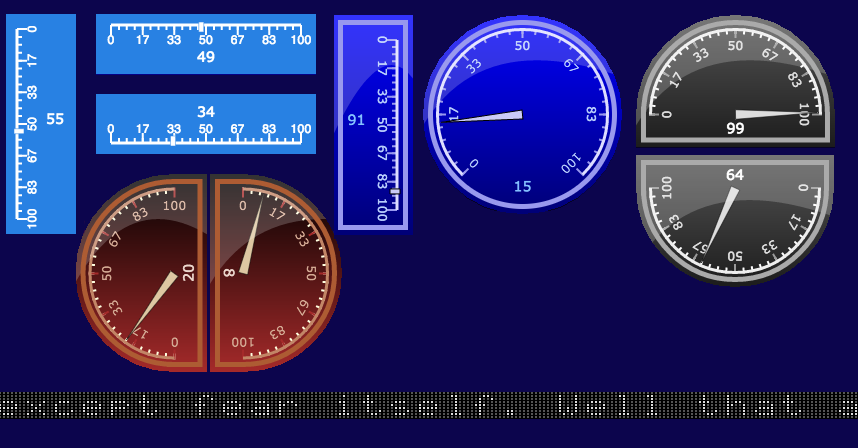
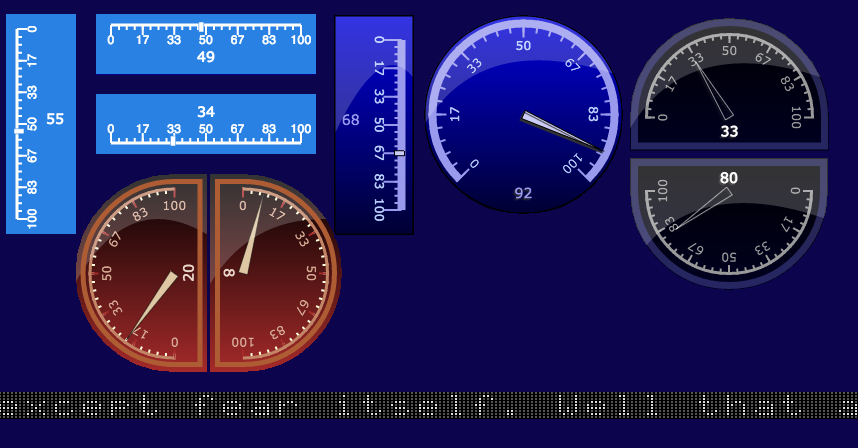
updated themes

Changed region(s): [[0.3636, 0.0312, 1.0, 0.6562]]

diff --git a/ts/dials/DialBase.ts b/ts/dials/DialBase.ts
@@ -392,53 +392,60 @@ module DbDashboards.Dials {
 
 
         public static themes: DbDashboards.Common.Themes = {
-            dark:  {
+            dark:   {
                 face:{
-                    gradientColor2: "black",
-                    gradientColor1: "#555"
+                    gradientColor2: "#003",
+                    gradientColor1: "#000"
                 },
                 value: {
                     font: {
-                        strokeStyle: "#FFF",
-                        fillStyle: "#FFF"
-                    }
+                        fillStyle: "#fff"
+                    },
+                    margin:60
+
                 },
                 bezel: {
-                    strokeStyle: "#aaa"
+                    strokeStyle: "rgba(126,126,255, 0.3)",
+                    width: 7,
+                    margin: 1
                 },
                 needle: {
-                    fillStyle: "#ddd",
-                    strokeStyle: "#000",
-                    shadowColor: "#333"
+                    fillStyle: "rgba(0,0,0,0)",
+                    strokeStyle: "#fff",
+                    shadowColor: "#333",
+                    margin: 30
                 },
                 scale: {
-                    strokeStyle: "#eee",
+                    margin: 7,
+                    strokeStyle: "#999",
 
                     majorTicks: {
                         strokeStyle: "#999"
                     },
                     minorTicks: {
-                        strokeStyle: "white"
+                        strokeStyle: "#999"
                     },
                     font: {
-                        strokeStyle: "white",
-                        fillStyle: "#ddd"
+                        fillStyle: "#999",
+
                     }
                 }
             },
             blue: {
                 face:{
-                    gradientColor2: "#007",
-                    gradientColor1: "#00f"
+                    gradientColor1: "#00d",
+                    gradientColor2: "#003"
                 },
                 value: {
                     font: {
                         strokeStyle: "#85C2FF",
-                        fillStyle: "#85C2FF"
+                        fillStyle: "#99e"
                     }
                 },
                 bezel: {
-                    strokeStyle: "#99e"
+                    strokeStyle: "rgba(0,0,0,0)",
+                    width:1.5,
+                    margin:0
                 },
                 needle: {
                     fillStyle: "#CBCBF7",
@@ -447,17 +454,21 @@ module DbDashboards.Dials {
                     shadowColor: "#333"
                 },
                 scale: {
-                    strokeStyle: "#ddf",
+                    strokeStyle: "#99e",
                     majorTicks: {
-                        strokeStyle: "#99e"
+                        strokeStyle: "#99e",
+                        length:10
                     },
                     minorTicks: {
-                        strokeStyle: "#99e"
+                        strokeStyle: "#99e",
+                        length:5
                     },
                     font: {
                         strokeStyle: "#B8CEFC",
                         fillStyle: "#B8CEFC"
-                    }
+                    },
+                    width: 8,
+                    margin: 3
                 }
             },
             chocolate: {
@@ -519,7 +530,7 @@ module DbDashboards.Dials {
                 needle: {
                     fillStyle: "#FFFFFF",
                     strokeStyle: "#2881E3",
-                    shadowColor: "#333"
+                    shadowColor: "rgba(0,0,0,0)"
                 },
                 scale: {
                     sideMargin: 15,

diff --git a/out/cDash.js b/out/cDash.js
@@ -1494,34 +1494,37 @@ var DbDashboards;
             DialBase.themes = {
                 dark: {
                     face: {
-                        gradientColor2: "black",
-                        gradientColor1: "#555"
+                        gradientColor2: "#003",
+                        gradientColor1: "#000"
                     },
                     value: {
                         font: {
-                            strokeStyle: "#FFF",
-                            fillStyle: "#FFF"
-                        }
+                            fillStyle: "#fff"
+                        },
+                        margin: 60
                     },
                     bezel: {
-                        strokeStyle: "#aaa"
+                        strokeStyle: "rgba(126,126,255, 0.3)",
+                        width: 7,
+                        margin: 1
                     },
                     needle: {
-                        fillStyle: "#ddd",
-                        strokeStyle: "#000",
-                        shadowColor: "#333"
+                        fillStyle: "rgba(0,0,0,0)",
+                        strokeStyle: "#fff",
+                        shadowColor: "#333",
+                        margin: 30
                     },
                     scale: {
-                        strokeStyle: "#eee",
+                        margin: 7,
+                        strokeStyle: "#999",
                         majorTicks: {
                             strokeStyle: "#999"
                         },
                         minorTicks: {
-                            strokeStyle: "white"
+                            strokeStyle: "#999"
                         },
                         font: {
-                            strokeStyle: "white",
-                            fillStyle: "#ddd"
+                            fillStyle: "#999"
                         }
                     }
                 },
